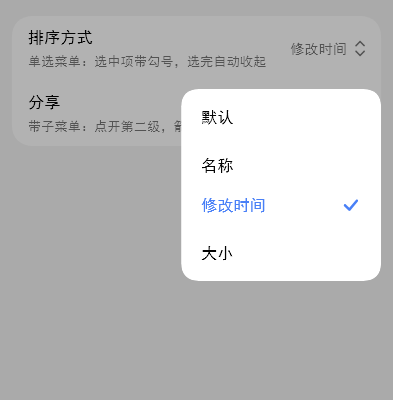
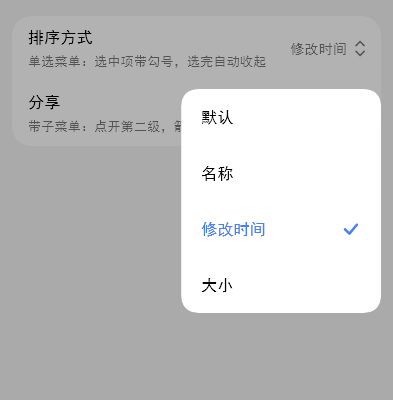
fix(menu): 行上下内边距全行统一 20dp，取消首末 / 中间两档
原先首末 20dp、中间 12dp（照搬参考实现 firstLast / middleVerticalPadding），
整列间距读作上疏、中紧、下疏。统一到更松的一档后行高恒 55.9dp、相邻行
中心距处处相等（预览图实测 48/40/47.5 → 56/56/55.5）。MiMenuItemRow 的
isFirst/isLast 与 MiMenuMetrics.rowEdgePadY 一并移除，文档与示例文案同步。

diff --git a/test/menu_item_row_test.dart b/test/menu_item_row_test.dart
@@ -11,7 +11,7 @@ import 'package:mi_like_ui/mi_like_ui.dart';
 /// 判据约定：
 ///  * 行尾装饰由状态推导（勾号 > 回退左箭头 > 级联右箭头），且**不参与行高**
 ///    —— 20dp 的勾号撑高 15.9dp 文案行是 issue #6 的回归点；
-///  * 首 / 末行上下内边距取更松的一档（参考实现口径）；
+///  * 首 / 末行与中间行**同一档**内边距（本库统一 20dp，不跟参考的两档）；
 ///  * 禁用 = 墨色降档 + 不响应，语义仍标 button；
 ///  * 按压高亮走 `MiPressable` 的 `pressBuilder`（实色，不引 saveLayer）。
 void main() {
@@ -49,8 +49,8 @@ void main() {
           box.decoration is BoxDecoration &&
           (box.decoration as BoxDecoration).color == MiMenuPalette.dark.pressed);
 
-  /// 参考口径：中间行 = 上下 12 + 主文案行盒 15.9（引擎取整，容差 0.2）。
-  double middleHeight() => MiMenuMetrics.rowPadY * 2 + 15.9;
+  /// 行高口径：上下各 20 的行内边距 + 主文案行盒 15.9（引擎取整，容差 0.2）。
+  double plainHeight() => MiMenuMetrics.rowPadY * 2 + 15.9;
 
   testWidgets('默认行：无行尾装饰，文案取主 / 次级墨色，行高只由文案块决定',
       (tester) async {
@@ -69,7 +69,7 @@ void main() {
     expect(find.byKey(MiMenuItemRow.chevronKey), findsNothing);
     expect(find.byKey(MiMenuItemRow.backChevronKey), findsNothing);
     expect(labelColor(tester, '名称'), MiMenuPalette.dark.label);
-    expect(rowHeight(tester), closeTo(middleHeight(), 0.2));
+    expect(rowHeight(tester), closeTo(plainHeight(), 0.2));
   });
 
   testWidgets('副文案：次级墨色，且不影响主文案墨色', (tester) async {
@@ -107,7 +107,7 @@ void main() {
     expect(find.byKey(MiMenuItemRow.chevronKey), findsNothing);
     expect(labelColor(tester, '名称'), MiMenuPalette.dark.selectedLabel);
     // 回归（issue #6）：勾号墨盒不参与行高。
-    expect(rowHeight(tester), closeTo(middleHeight(), 0.2));
+    expect(rowHeight(tester), closeTo(plainHeight(), 0.2));
     expect(
       tester.getSemantics(find.text('名称')).flagsCollection.isSelected,
       Tristate.isTrue,
@@ -163,7 +163,7 @@ void main() {
     expect(find.byKey(MiMenuItemRow.checkKey), findsNothing);
   });
 
-  testWidgets('首 / 末行上下内边距更松（比中间行高 16dp）', (tester) async {
+  testWidgets('上下内边距统一 20dp（不再分首末 / 中间两档）', (tester) async {
     setWindow(tester, const Size(400, 300));
 
     await tester.pumpWidget(
@@ -171,24 +171,15 @@ void main() {
         const MiMenuItemRow(label: '名称', themeMode: MiThemeMode.dark),
       ),
     );
-    final middle = rowHeight(tester);
+    final plain = rowHeight(tester);
 
-    await tester.pumpWidget(
-      harness(
-        const MiMenuItemRow(
-          label: '名称',
-          isFirst: true,
-          themeMode: MiThemeMode.dark,
-        ),
-      ),
-    );
-    final edge = rowHeight(tester);
-
-    expect(edge - middle, closeTo(16, 0.2));
     expect(
-      edge,
-      closeTo(MiMenuMetrics.rowEdgePadY * 2 + 15.9, 0.2),
+      plain,
+      closeTo(MiMenuMetrics.rowPadY * 2 + 15.9, 0.2),
+      reason: '行高 = 上下各 20 的行内边距 + 正文行盒 15.9',
     );
+    // 行内边距只有一档：菜单里首行与中间行由同一个常量出数。
+    expect(MiMenuMetrics.rowPadY, 20);
   });
 
   testWidgets('禁用：不响应点按，语义仍是按钮', (tester) async {

diff --git a/lib/src/overlays/menu/menu_item_row.dart b/lib/src/overlays/menu/menu_item_row.dart
@@ -27,9 +27,8 @@ import 'menu_painter.dart';
 ///    时整行禁用（墨色降档、不响应）；
 ///  * **行尾装饰**由状态推导，优先级 [selected]（勾号）> [showBackArrow]
 ///    （左向箭头，级联回退）> [hasChildren]（右向箭头，级联触发器）；
-///  * **首 / 末行**（[isFirst] / [isLast]）上下内边距取更松的
-///    [MiMenuMetrics.rowEdgePadY]（参考实现刻意给得更松），中间行取
-///    [MiMenuMetrics.rowPadY]；
+///  * **行上下内边距**恒取 [MiMenuMetrics.rowPadY]（20dp，所有行统一 ——
+///    参考实现的首末 / 中间两档会让整列间距上疏下紧，本库不跟）；
 ///  * 行尾装饰**不参与行高**：槽钉 0 高、墨盒按行中线居中溢出绘制，否则
 ///    20dp 的勾号会把 15.9dp 文案的行撑高 4.1dp（见 [MiMenuMetrics.checkSide]）。
 ///
@@ -44,8 +43,6 @@ class MiMenuItemRow extends StatelessWidget {
     this.enabled = true,
     this.hasChildren = false,
     this.showBackArrow = false,
-    this.isFirst = false,
-    this.isLast = false,
     this.onTap,
     this.themeMode,
   });
@@ -76,12 +73,6 @@ class MiMenuItemRow extends StatelessWidget {
   /// 是否是级联回退行（尾部画左向箭头，语义「回到上一级」）。
   final bool showBackArrow;
 
-  /// 是否是整张菜单的首行（上下内边距取更松的一档）。
-  final bool isFirst;
-
-  /// 是否是整张菜单的末行（同 [isFirst]）。
-  final bool isLast;
-
   /// 点按回调；null = 该行不可点。
   final VoidCallback? onTap;
 
@@ -92,9 +83,6 @@ class MiMenuItemRow extends StatelessWidget {
   Widget build(BuildContext context) {
     final mode = MiTheme.modeOf(context, explicit: themeMode);
     final palette = MiMenuPalette.of(mode);
-    final padY = isFirst || isLast
-        ? MiMenuMetrics.rowEdgePadY
-        : MiMenuMetrics.rowPadY;
     final labelColor = !enabled
         ? palette.disabled
         : (selected ? palette.selectedLabel : palette.label);
@@ -115,9 +103,9 @@ class MiMenuItemRow extends StatelessWidget {
           child: child,
         ),
         child: Padding(
-          padding: EdgeInsets.symmetric(
+          padding: const EdgeInsets.symmetric(
             horizontal: MiMenuMetrics.rowInsetX,
-            vertical: padY,
+            vertical: MiMenuMetrics.rowPadY,
           ),
           child: Row(
             children: [
@@ -210,7 +198,7 @@ class MiMenuItemRow extends StatelessWidget {
   /// 勾号墨盒 20dp 高于正文行盒（`MiTypography.dialogAction` 15.9dp，
   /// `height: 1.0`），若让槽参与行高计算，选中行就比普通行高 4.1dp —— 上下
   /// 两个相邻中心距各 +2dp，读起来是「选中项上下更松」。这里把槽钉成 0 高、
-  /// 用 [OverflowBox] 让墨盒以行的中线为心画到槽外（溢出 2.05dp 落在 12dp
+  /// 用 [OverflowBox] 让墨盒以行的中线为心画到槽外（溢出 2.05dp 落在 20dp
   /// 行内边距里，不碰相邻行），行高于是只由文案块决定。参考实现同样让勾号
   /// 参与行高，差别在它的正文行盒 ≈18.7dp（差值仅 1.3dp，看不出来）。
   Widget _slot({

diff --git a/test/menu_test.dart b/test/menu_test.dart
@@ -332,15 +332,15 @@ void main() {
     expect(find.text('危险动作'), findsOneWidget);
   });
 
-  testWidgets('行高：勾号不参与行高，选中行与普通行等高（相邻中心距一致）', (tester) async {
+  testWidgets('行高：全列等高（首末与中间同档），勾号不撑行（相邻中心距一致）', (tester) async {
     final controller = MiMenuController();
     addTearDown(controller.dispose);
     tester.view.devicePixelRatio = 1.0;
     tester.view.physicalSize = const Size(393, 856);
     addTearDown(tester.view.reset);
 
-    // 5 行：首 / 末行走 20dp 边距，中间三行都是 12dp —— 比较「选中」与
-    // 「未选中」的中间行高度即可判断勾号有没有把行撑高。
+    // 5 行：首末与中间现在同一档内边距 —— 全列行高必须一致（issue 要求
+    // 所有行同高），选中行还要额外不被勾号撑开。
     await tester.pumpWidget(
       page(
         controller: controller,
@@ -372,11 +372,22 @@ void main() {
       closeTo(plain, 0.01),
       reason: '选中行的勾号 20dp 不应撑高行盒（正文行盒 15.9dp）',
     );
-    // 行高 = 上下各 12 的行内边距 + 正文行盒（15.9 → 引擎取整成 16.0）。
+    // 行高 = 上下各 20 的行内边距 + 正文行盒（15.9 → 引擎取整成 16.0）。
     expect(
       selected,
       closeTo(MiMenuMetrics.rowPadY * 2 + 15.9, 0.2),
       reason: '行高应由正文行盒决定',
+    );
+    // 首 / 末行与中间行同档：不再有 20 / 12 两档内边距。
+    expect(
+      rowHeight('第一项'),
+      closeTo(selected, 0.01),
+      reason: '首行与中间行等高',
+    );
+    expect(
+      rowHeight('第五项'),
+      closeTo(selected, 0.01),
+      reason: '末行与中间行等高',
     );
 
     // 相邻中心距：选中行上下两侧都不该比别人多 2dp。
@@ -384,11 +395,21 @@ void main() {
       for (final l in ['第一项', '第二项', '第三项', '第四项', '第五项'])
         tester.getCenter(find.text(l)).dy,
     ];
-    // centers[1]→[2] 跨「选中行」，centers[2]→[3] 全为普通行，两者须相等。
+    // 所有相邻中心距相等 =全列等高（首 / 末行不再单独松一档）。
+    final gaps = [
+      for (var i = 1; i < centers.length; i++) centers[i] - centers[i - 1],
+    ];
+    for (var i = 1; i < gaps.length; i++) {
+      expect(
+        gaps[i],
+        closeTo(gaps[0], 0.01),
+        reason: '相邻行中心距应处处一致（第 $i 段 = 第 0 段）',
+      );
+    }
     expect(
-      centers[2] - centers[1],
-      closeTo(centers[3] - centers[2], 0.01),
-      reason: '选中行两侧中心距应与普通行一致',
+      gaps[0],
+      closeTo(MiMenuMetrics.rowPadY * 2 + 15.9, 0.2),
+      reason: '中心距 = 行高 = 2×20 + 正文行盒',
     );
   });
 }

diff --git a/lib/src/overlays/menu/menu.dart b/lib/src/overlays/menu/menu.dart
@@ -636,10 +636,6 @@ class _MiMenuPanelState extends State<_MiMenuPanel>
     final level = _path.length;
     final columns = <Widget>[];
     if (level == 0) {
-      final total = widget.groups
-          .where((g) => g.items.isNotEmpty)
-          .fold<int>(0, (sum, g) => sum + g.items.length);
-      var row = 0;
       var groups = 0;
       for (final group in widget.groups) {
         if (group.items.isEmpty) continue;
@@ -652,8 +648,6 @@ class _MiMenuPanelState extends State<_MiMenuPanel>
               leading: item.leading,
               selected: item.selected,
               hasChildren: item.hasChildren,
-              isFirst: row == 0,
-              isLast: row == total - 1,
               enabled: group.enabled && item.enabled,
               onTap: item.hasChildren
                   ? () => setState(() => _path.add(item))
@@ -661,7 +655,6 @@ class _MiMenuPanelState extends State<_MiMenuPanel>
               themeMode: mode,
             ),
           );
-          row++;
         }
         groups++;
       }
@@ -677,15 +670,12 @@ class _MiMenuPanelState extends State<_MiMenuPanel>
           subtitle: parent.subtitle,
           leading: parent.leading,
           showBackArrow: true,
-          isFirst: true,
-          isLast: children.isEmpty,
           enabled: true,
           onTap: () => setState(() => _path.removeLast()),
           themeMode: mode,
         ),
       );
-      for (var i = 0; i < children.length; i++) {
-        final item = children[i];
+      for (final item in children) {
         columns.add(
           MiMenuItemRow(
             label: item.label,
@@ -693,7 +683,6 @@ class _MiMenuPanelState extends State<_MiMenuPanel>
             leading: item.leading,
             selected: item.selected,
             hasChildren: item.hasChildren,
-            isLast: i == children.length - 1,
             enabled: item.enabled,
             onTap: item.hasChildren
                 ? () => setState(() => _path.add(item))

diff --git a/lib/src/overlays/menu/menu_metrics.dart b/lib/src/overlays/menu/menu_metrics.dart
@@ -17,7 +17,7 @@ import 'package:flutter/animation.dart';
 /// | [minHeight] | `MiuixListPopupDefaults.minPopupHeight` | 50 |
 /// | [margin] | `dropdownPositionProvider(verticalMargin:)` | 8 |
 /// | [rowInsetX] | `insideHorizontalPadding` | 20 |
-/// | [rowPadY] / [rowEdgePadY] | `middle…` / `firstLastVerticalPadding` | 12 / 20 |
+/// | [rowPadY] | `firstLastVerticalPadding`（统一档，见该常量说明） | 20 |
 /// | [iconCell] / [iconGap] | `iconMinSize` / `iconEndPadding` | 26 / 12 |
 /// | [checkSide] / [trailingGap] | `checkIconSize` / `checkIconStartPadding` | 20 / 12 |
 /// | [arrowSize] | `chevronSize` | 10×16 |
@@ -51,11 +51,13 @@ class MiMenuMetrics {
   /// 行左右内边距。
   static const double rowInsetX = 20;
 
-  /// 中间行上下内边距。
-  static const double rowPadY = 12;
-
-  /// 首 / 末行上下内边距（整张菜单的上下两行，参考实现刻意给得更松）。
-  static const double rowEdgePadY = 20;
+  /// 行上下内边距（**所有行统一**）。
+  ///
+  /// 本库取 20dp：参考实现是两档（`middleVerticalPadding` 12 /
+  /// `firstLastVerticalPadding` 20），但首末与中间不等高会让整列间距读作
+  /// 「上疏、中紧、下疏」，视觉上是缺陷 —— 统一到更松的一档，行高恒为
+  /// 2 × 20 + 正文行盒 15.9 = 55.9dp，相邻中心距恒 55.9dp。
+  static const double rowPadY = 20;
 
   /// 前导图标单元格最小边长。
   static const double iconCell = 26;

diff --git a/lib/demo/pages/showcase_page.dart b/lib/demo/pages/showcase_page.dart
@@ -1271,7 +1271,7 @@ class _MenuShowcaseState extends State<_MenuShowcase> {
           context,
           'MiMenu：锚点量自子级盒子（右缘对齐、下方优先，放不下翻上方并夹紧'
               '在宿主内）→ 0.15→1 缩放 + 单向揭示 + 淡入（弹簧 ζ 0.82）→ '
-              '面板圆角 16 / 宽 200–288 / 行内距 20、首末行 20 中间 12。'
+              '面板圆角 16 / 宽 200–288 / 行内距 20、上下留白全行统一 20。'
               '经 MiPopup 注册到宿主，z 序 = 注册序；点遮罩 / 系统返回收起，'
               '收口后才回调 onDismissed。',
         ),
@@ -1329,7 +1329,7 @@ class _MenuShowcaseState extends State<_MenuShowcase> {
         _demoNote(
           context,
           'MiMenuItemRow：行尾装饰由状态推导（勾号 > 回退左箭头 > 级联右箭头）；'
-              '首 / 末行上下内边距取更松的一档；装饰不参与行高 —— 20dp 的勾号'
+              '上下内边距全行统一 20dp；装饰不参与行高 —— 20dp 的勾号'
               '若参与会把 15.9dp 的文案行撑高 4.1dp。MiMenu 的面板内部就用它渲染。',
         ),
       ],

diff --git a/docs/MODULES.md b/docs/MODULES.md
@@ -98,7 +98,7 @@
 | 弹框 | `MiDialog({title, message, actions, items, layout, position, messageAlign, onScrimTap})`、`MiDialogAction`（`style: MiDialogActionStyle`）、`MiDialogItem`、`MiDialogPosition`、`MiDialogLayout`、`MiDialogMetrics` / `MiDialogListMetrics` | 按钮形态 / 纵向操作列表形态；三档位置 |
 | 命令式弹框 | `showMiDialog(context, dialog: …)` → `Future<int?>` | `await` 拿被点按钮 / 列表项下标（遮罩 / 返回 = null）；挂根导航器、零转场 |
 | 锚定菜单 | `MiMenu({groups, child, controller, onSelected, onDismissed, themeMode, maxHeight, enableScrim, collapseOnSelect})`、`MiMenuItem({label, subtitle, leading, enabled, selected, children, value})`、`MiMenuGroup(items, {enabled})`、`MiMenuSelection`、`MiMenuController`、`MiMenuArrow`、`MiMenuMetrics` / `MiMenuPalette` | 贴触发件弹出：单选勾号 / 级联二级 / 多分组禁用；右缘对齐 + 空间不足翻转夹紧；经 `MiPopup` 入宿主 |
-| 菜单行 | `MiMenuItemRow({label, subtitle, leading, selected, enabled, hasChildren, showBackArrow, isFirst, isLast, onTap, themeMode})`、`MiDropdownImpl`（参考实现同位名别名）、`MiMenuItemRow.checkKey` / `chevronKey` / `backChevronKey` | 一行「前导 + 主 / 副文案 + 行尾装饰」，装饰由状态推导、不参与行高；`MiMenu` 面板内部即由它渲染，也可单独铺在选项列表 / 对话框里 |
+| 菜单行 | `MiMenuItemRow({label, subtitle, leading, selected, enabled, hasChildren, showBackArrow, onTap, themeMode})`、`MiDropdownImpl`（参考实现同位名别名）、`MiMenuItemRow.checkKey` / `chevronKey` / `backChevronKey` | 一行「前导 + 主 / 副文案 + 行尾装饰」，装饰由状态推导、不参与行高，上下内边距全行统一 20dp；`MiMenu` 面板内部即由它渲染，也可单独铺在选项列表 / 对话框里 |
 | 底部弹窗 | `MiBottomSheet({show, child, title, leading, trailing, onDismissRequest, onDismissed, enableDragDismiss, enableScrim, showHandle, cornerRadius, maxWidth})`、`MiBottomSheetMetrics` | 弹簧滑入、手柄下拉跟手、只圆上两角 |
 | 弹出面板 | `MiPullUpPanel({child, height, maxHeight, anchorPoint, collapsedSize, controller, onDismissed})`、`MiPullUpPanelController`、`MiPullUpPanelMetrics` | 从触发行弹起的面板（展开欠阻尼 / 收回临界阻尼） |
 | 轻提示 | `MiSnackbar.show(context, {message, actionLabel, onAction, duration, themeMode})`、`MiSnackbarController`、`MiSnackbarMetrics` | 底部轻提示，需要 `MiPopupHost` |

diff --git a/CHANGELOG.md b/CHANGELOG.md
@@ -34,14 +34,22 @@
   「哪个 tab 显示 / 回调 / 配色」的声明），栏位内显式 `showShadow: false` ——
   黄金图与预览图基线未变，圆钮像素零差异。
 
+### Changed（组件：菜单）
+
+- **菜单行上下内边距全行统一 20dp**：原先首 / 末行 20dp、中间行 12dp 两档
+  （照搬参考实现 `firstLastVerticalPadding` / `middleVerticalPadding`），真机上
+  整列读作「上疏、中紧、下疏」。统一到更松的一档后行高恒为 55.9dp、相邻行
+  中心距处处相等。`MiMenuItemRow` 的 `isFirst` / `isLast` 与
+  `MiMenuMetrics.rowEdgePadY` 一并移除（两者只为这两档服务）。
+
 ### Added（组件：菜单行）
 
 - **`MiMenuItemRow` —— 菜单行的公开形态**：`MiMenu` 面板里那一行（前导 +
   主 / 副文案 + 行尾装饰）提成独立组件，可直接铺进选项列表 / 对话框行，
   不必搬整套锚定与遮罩；`MiMenu` 内部改由它渲染，行几何与按压语言只剩一处
-  定义。行尾装饰按状态推导（勾号 > 回退左箭头 > 级联右箭头），首 / 末行取更松
-  的内边距，装饰不参与行高（issue #6 的口径原样保留）；`MiDropdownImpl` 作为与
-  参考实现 `MiuixDropdownImpl` 同位名的别名一并导出。
+  定义。行尾装饰按状态推导（勾号 > 回退左箭头 > 级联右箭头），上下内边距全行
+  统一（见下条 Changed），装饰不参与行高（issue #6 的口径原样保留）；
+  `MiDropdownImpl` 作为与参考实现 `MiuixDropdownImpl` 同位名的别名一并导出。
 
 ### Fixed（组件：菜单）
 
